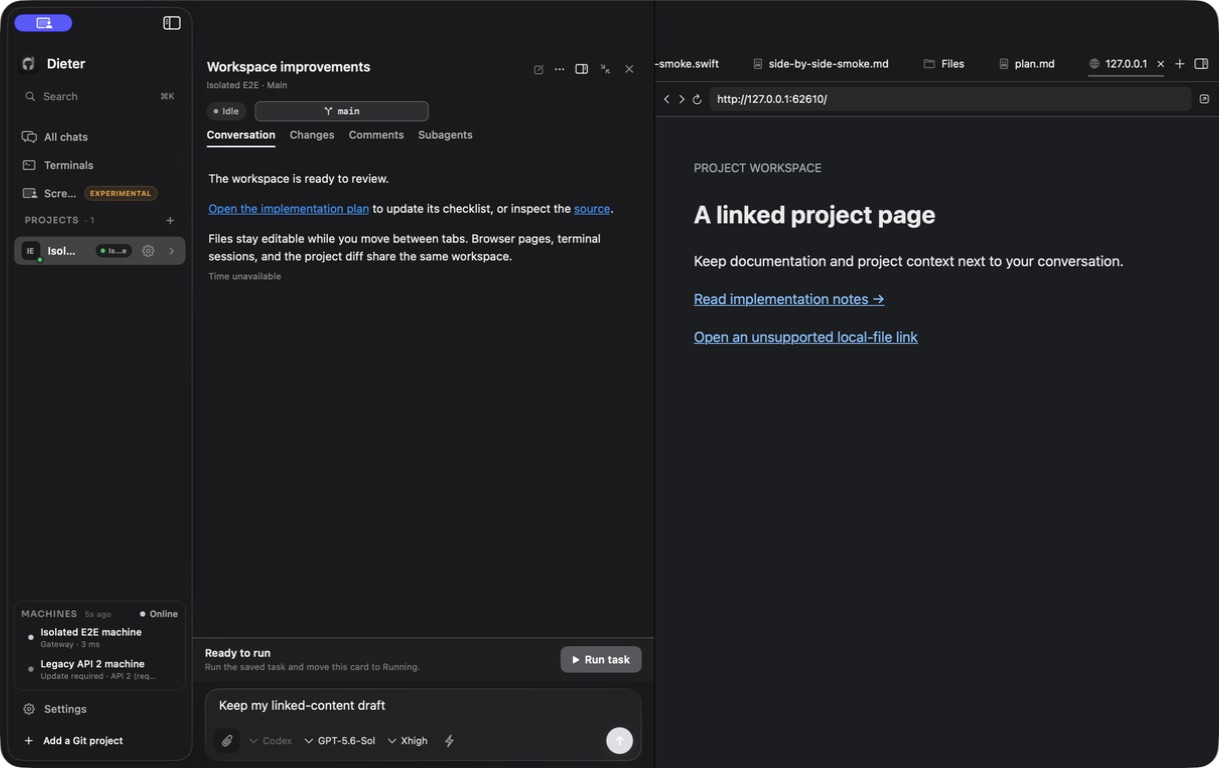
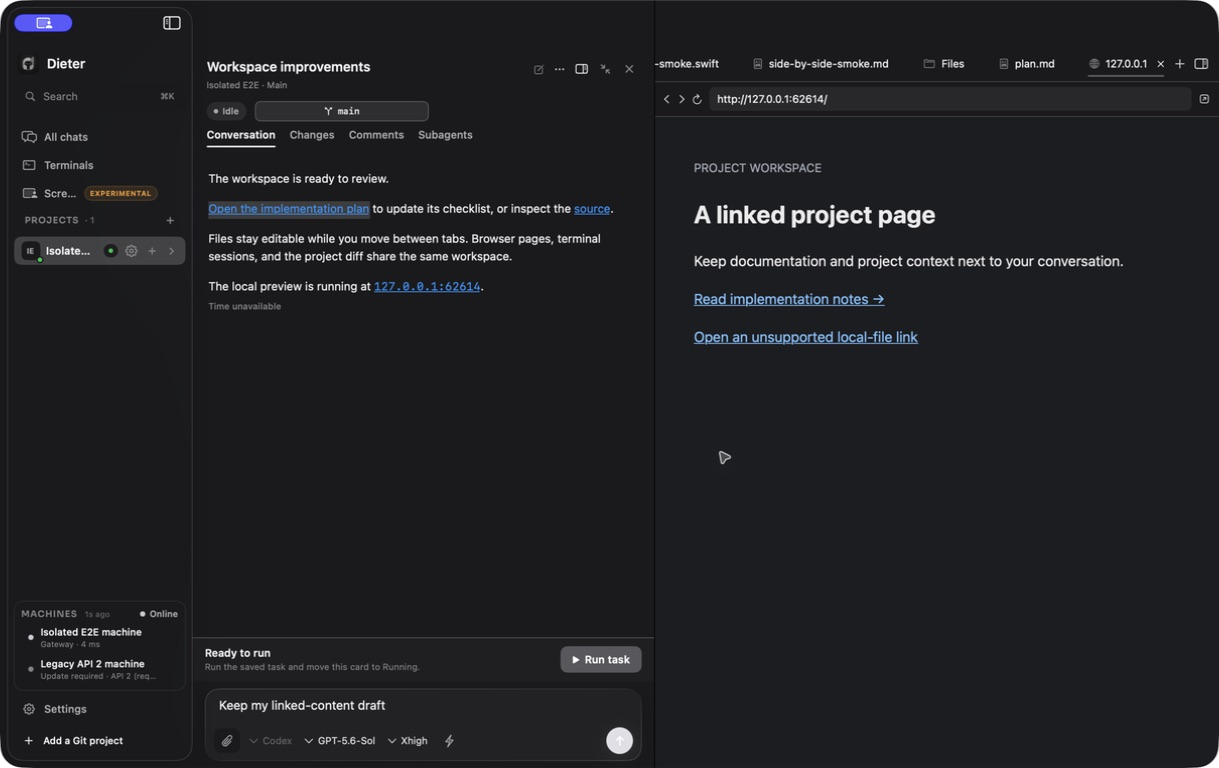
Record native workspace validation and screenshots

Changed region(s): [[0.1559, 0.3438, 0.4053, 0.4062], [0.1559, 0.25, 0.3117, 0.3125], [0.0312, 0.3125, 0.1247, 0.3438]]

diff --git a/docs/conversation-workspace-validation-2026-09-12.md b/docs/conversation-workspace-validation-2026-09-12.md
@@ -1,10 +1,20 @@
 # Native conversation workspace: implementation and validation
 
-12 September 2026. Opens linked objects in a tabbed, resizable workspace beside the conversation. Files, Browser, Terminal, and Review are available from the empty launcher and the add-tab menu. There is no side chat.
+12 September 2026. Opens linked objects in a tabbed, resizable workspace beside the conversation. Files, Browser, Terminal, Review, and Processes are available from the empty launcher and the add-tab menu. There is no side chat.
 
 ## Delivered behavior
 
-Markdown opens in interactive Edit mode. Native formatting, checkboxes, relative links, and revision-checked saving work in place; Source, Split, and Preview are optional. Code has syntax highlighting and line navigation. Images, PDFs, and unsupported files use dedicated native preview or download surfaces.
+Markdown opens in interactive Edit mode. Native formatting, checkboxes, relative links, and revision-checked saving work in place; Source is the only alternate mode. PDF and standalone HTML exports use the current draft, including unsaved changes. File toolbars expose Show in Finder for local workspace files; remote files can be saved as a local copy. Code has syntax highlighting and line navigation. Images, PDFs, and unsupported files use dedicated native preview or download surfaces.
+
+Right-clicking a chat file link offers installed applications in Open in and Show in Finder, resolved against that conversation’s local workspace. Remote paths are never opened as local files.
+
+Bare development addresses such as `127.0.0.1:4018`, `localhost:3000`, and `[::1]:8080` are clickable in prose and inline code. Authored links and monospace styling are preserved; fenced code and file/line references stay literal.
+
+Quick Task exposes Add task and Run task in its shared editor. Its first local row uses the final deterministic card ID. Creation and optional first-turn admission complete before bounded background Spark title generation. Title updates change only metadata and respect later manual edits; dependent outbox messages wait for creation to finish. A failed local journal write preserves the draft.
+
+Image attachments in Mac composers can be annotated with pen, highlighter, arrows, rectangles, and ellipses, with colors and undo/redo. Apply replaces staged bytes after size and stale-attachment checks; source files stay untouched. Island captures show the screenshot editor to the right of the Quick Task inputs, stacking below at narrow widths. Sidebar project controls appear on hover, and repository names take width priority over host labels.
+
+Agents can start, list, read, and stop registered background processes through session-bound harness tools. The existing exact-argv execution API and CLI provide the same admission and lifecycle behavior. The Processes tab filters to the exact conversation, renders bounded separate stdout/stderr, resumes from event sequence, and offers explicit Stop. Hiding or closing the tab stops its observers, while the daemon process continues through turn completion and client disconnects.
 
 Each tab retains its own document buffer, browser history, and exact machine/project/worktree scope. Dirty close prompts support saving, discarding, or canceling. Hiding the pane preserves its tabs. Closing a terminal tab stops its UI watch without closing the daemon-owned session. Review uses the conversation worktree or the shared project checkout as appropriate.
 
@@ -14,48 +24,57 @@ The `present_content` harness tool and `dieter card present` / `dieter chat pres
 
 ## Validation
 
-- `go test -race ./...` and `go vet ./...`: passed.
-- `just harness test`: 49 tests passed.
-- `just mac test`: 513 tests in 19 suites passed.
-- `just android test`: passed using Android Studio's bundled JBR.
-- Proto generation, Swift formatting, whitespace checks, packaged-app build, and bundle signature verification: passed.
-- All eight native Mac smoke suites passed. The final conversation run recorded 99 result entries with zero failures.
+The expanded change passed all eight native suites and the focused conversation rerun. The final Board and Island drivers exited successfully and removed their disposable runtimes. The verified app is installed and running.
 
-The new pane smoke journeys verify rich Markdown typing and checkbox interaction, scoped save and reopening in Edit mode, dirty tab retention and canceled close, file-tree navigation, actual relative-link clicks, code line navigation, browser address entry/back/navigation/scheme rejection, terminal input and session survival, scoped project review, image/PDF/unsupported-file renderers, native resizing, exact transcript preservation, and RPC-to-watch agent presentation. Model tests cover tab limits, malformed links, endpoint/worktree changes, reconnect recovery, and dirty-buffer protection.
+- Affected Go packages: race tests and `go vet` passed through `just check-changed`.
+- Harness Node tests: 51 passed.
+- Mac unit tests: 533 tests in 23 suites passed.
+- Android unit checks: 258 tests across 61 suites, zero failures/errors/skips; Gradle validated existing results as up to date. The working command uses `JAVA_HOME="/Users/michael.ermer/Applications/Android Studio.app/Contents/jbr/Contents/Home" just android test` (JBR 21.0.10). The default system Applications path is absent.
+- Current Mac app build passed. The installed executable matches the build, and its deep, strict code-signature verification passed.
+- Android connected tests: unavailable; no device or emulator is connected. No emulator was started.
 
-The broader core suite checks Markdown Edit/Source/Split/Preview, diagrams, saving, and editor lifecycle. Sidebar prepare/relaunch checks cover persisted collapse, order, and width. Worktree and project Git operations are exercised in disposable repositories. WebRTC test peers are constrained to loopback interfaces to avoid host VPN/physical-interface dependence.
+`just check-changed` stopped at the missing default Android JBR path; the separate Android command above resolved that environment issue. Do not interpret the interrupted aggregate command as a complete pass.
 
-| Suite | Result | Local evidence directory under `apps/mac/.build/smoke/` |
+| Native suite | Current result | Evidence directory under `apps/mac/.build/smoke/` |
 | --- | --- | --- |
-| Core | Passed | `core-20260912-152308-912397ae-d28c-4e84-a426-687662a483d9` |
-| Board | Passed | `board-20260912-152511-0bdab15a-7ad8-4880-9069-7e49dc8147a4` |
-| Conversation | Passed | `conversation-20260912-153641-e5c4ecf0-8493-48b7-9200-07107595b941` |
-| Machine | Passed | `machine-20260912-151937-ab2d8881-29ab-45d8-a869-e3cf014f0d5e` |
-| Sidebar | Passed | `sidebar-20260912-152959-d38c14f5-70bb-4b63-93e9-78d327b1b0e5` |
-| Terminal | Passed | `terminal-20260912-153056-becc6f7e-f88f-4656-88ab-9f3959efac72` |
-| Island | Passed | `island-20260912-153107-f13bd0c8-f130-44e0-be54-bcd1e8a4ec8f` |
-| Workspace | Passed | `workspace-20260912-153116-342a5eb9-32ef-4afd-9588-940d39fc89db` |
+| Core | 69 report entries, zero failures (65 pass entries and 4 informational entries) | `core-20260912-181343-93b6c2a8-72f7-4826-ad43-f5053183ce4f` |
+| Board | 42 report entries, zero failures; driver exit 0 | `board-20260912-184848-88273f10-5edd-470b-b8cd-61327a4c3a9b` |
+| Conversation | 119 report entries, zero failures | `conversation-20260912-182024-637aa3b0-3f19-4988-91ff-c2c8a207b869` |
+| Conversation, focused | 44 entries, all passed, including Processes output alignment | `conversation-20260912-183037-0a22c25d-240c-4f92-9fdc-27022465247e` |
+| Machine | 14 entries, all passed | `machine-20260912-182521-22a2c3d2-b7e6-4eb0-84dd-1775710a38d0` |
+| Sidebar | Prepare: 13 entries; relaunch: 11 entries; zero failures | `sidebar-20260912-182531-6c41d30e-7096-403c-abdc-089782909f02` |
+| Terminal | Create: 13 entries; restart: 11 entries; zero failures | `terminal-20260912-182543-fbb9acfd-f1e9-4530-9768-24ed32b1b765` |
+| Island | 24 entries, all passed | `island-20260912-184952-e090f575-5579-4fd3-a0e2-48c3183a6ee7` |
+| Workspace | 37 entries, zero failures | `workspace-20260912-182626-096637f7-8794-4389-9e3a-d838899ba5f4` |
 
-Two existing coverage limits are explicit: the board suite's in-process accessibility-action probe is unavailable, so card opening was additionally verified through external native accessibility on the installed app; the conversation renderer fixture skips its separate historical-pagination probe, whose bounded-history behavior is covered by unit tests. Android connected tests were unavailable because no emulator or device was connected.
+The final Board run passed `global-quick-task-retains-draft` by reopening through a native pointer click and asserting the actual visible editor text. The previous failure came from the smoke registry selecting a retained button inside a hidden conversation pane instead of the visible toolbar button; the lookup now rejects hidden ancestors. The Run task journey also passed: a native click started the mock task before the generated title arrived, and the same selected task ID remained after the title update. Add/Run controls were present in board, global Quick Task, and the Island capture editor.
 
-All native smoke mutations used isolated state roots and disposable daemons. The operator's daemon was not stopped, replaced, or restarted. The updated app was installed at `~/Applications/Dieter.app`, its signature and executable hash were verified, and one installed app process was launched and observed connected. Live agent presentation requires updating the running daemon to the matching implementation; manual workspace tabs work with the existing service.
+An earlier Board driver hit a Foundation disposable-runtime removal error after its functional assertions passed. The driver now has a bounded fallback restricted to that exact owned runtime after its gateway has stopped. The final Board and Island runs completed with successful cleanup and no remaining smoke app or gateway processes.
 
-## Screenshots
+Island's earlier timeout occurred during its optional screenshot capture pause. Capture mode now has a bounded 75-second driver budget; the normal 30-second deadline is unchanged. The completed rerun passed the right-hand annotation layout, canvas and pending-mark retention at narrow width, and Apply replacing the staged attachment bytes.
 
-These are actual native-window captures from the final isolated conversation smoke run, showing test fixtures rather than operator project content.
+Coverage includes interactive Markdown and Source, unsaved PDF/HTML export through native Save dialogs, scoped file actions, dirty-tab retention, file navigation, browser controls, native terminal lifetime, shared-project and worktree review, process output/lifecycle, attachment markup, split restoration, and agent presentation. Model tests cover endpoint/workspace changes, reconnects, tab limits, pending-create dependencies, and manual-title protection. The Core run also passed its Markdown editor, diagrams, saving, and undo checks. The focused Conversation rerun passed every Processes behavior check and its top-left output alignment assertion. Sidebar passed the repository-name width priority and hover-control journeys. Native composer markup checks passed tool/color selection, mouse-drawn strokes, Undo, Cancel preserving original attachment bytes, and Apply producing a valid changed PNG.
 
-### Interactive Markdown (default mode)
+The exported PDF was rendered with Poppler and visually inspected: one A4 page with clear margins, readable text, and no clipping or overlap. Both PDF and HTML contain the unsaved-draft marker, and the native export checks confirm the original file remains unchanged. HTML has balanced structure, no script elements or active event attributes, and a restrictive content policy. Checklist state is preserved as literal `[x]` / `[ ]` text.
 
-![Interactive Markdown beside the conversation](screenshots/conversation-workspace/markdown.png)
+Existing coverage limits remain explicit: the board fixture cannot exercise its separate in-process accessibility-action probe; historical-pagination behavior is covered by bounded-history unit tests rather than the renderer fixture's separate probe. The existing image-preview journey used its native accessibility-action fallback. The Quick Task reopen and markup journeys passed their actual visible-control and content assertions without fallback.
 
-### Browser
+All native smoke mutations use isolated state roots and disposable daemons. The operator's running daemon remains unchanged. Background Spark title generation and the new harness presentation/process tools require the matching daemon implementation; their current validation uses updated isolated daemons. Manual workspace tabs use the existing supported service APIs.
 
-![Browser tab beside the conversation](screenshots/conversation-workspace/browser.png)
+Logs: `/tmp/dieter-workspace-final-checks.log`, `/tmp/dieter-android-unit-current.log`, `/tmp/dieter-workspace-final-smoke.log`, `/tmp/dieter-workspace-final-conversation.log`, `/tmp/dieter-workspace-final-remaining-smoke.log`, `/tmp/dieter-workspace-final-polish-smoke.log`, `/tmp/dieter-workspace-board-final.log`, and `/tmp/dieter-workspace-handoff-smoke.log`.
 
-### Terminal
+## Final handoff
 
-![Native terminal tab beside the conversation](screenshots/conversation-workspace/terminal.png)
+- Installed source commit: `bc77133069522148ec715133f92889d3bd171afb`.
[1 lines of base64/hex data omitted]
+- Installed app: `~/Applications/Dieter.app`; the prior bundle is preserved at `~/Applications/.Dieter-markdown-update.zcgl9uvd/Previous.app`.
+- Deep, strict signature verification and executable identity checks passed before and after replacement. Exactly one installed app process was running after launch; its native UI reported Dieter online and the existing local machine connected.
+- The live operator daemon was not restarted or replaced. New daemon-backed functionality remains subject to the matching-daemon requirement above.
+- Six actual native screenshots are committed in `docs/screenshots/conversation-workspace/`: Markdown Edit, Browser, Terminal, Review, Processes, and Quick Task capture markup. They contain isolated fixture data. The capture editor image uses an own-window ScreenCaptureKit capture; all images were visually inspected.
 
-### Review
-
-![Native project review beside the conversation](screenshots/conversation-workspace/review.png)
+![Interactive Markdown](screenshots/conversation-workspace/markdown.png)
+![Browser](screenshots/conversation-workspace/browser.png)
+![Terminal](screenshots/conversation-workspace/terminal.png)
+![Review](screenshots/conversation-workspace/review.png)
+![Session processes](screenshots/conversation-workspace/processes.png)
+![Quick Task screenshot markup](screenshots/conversation-workspace/quick-task-capture.png)
